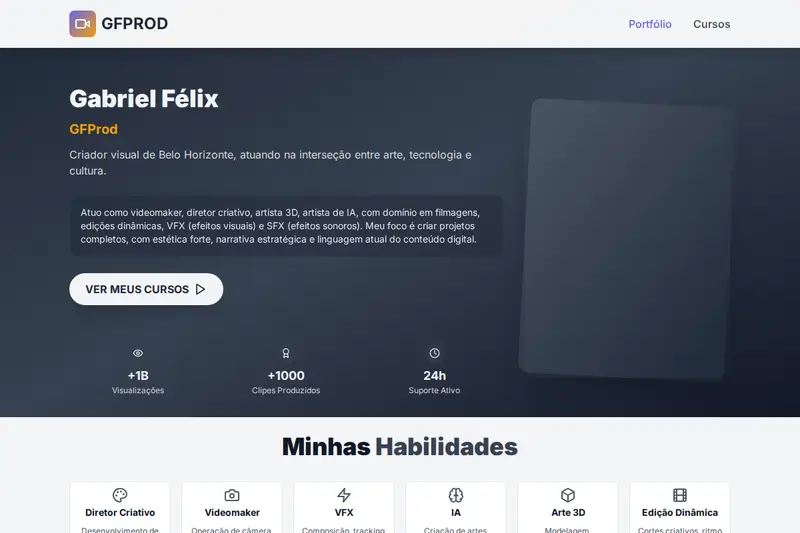
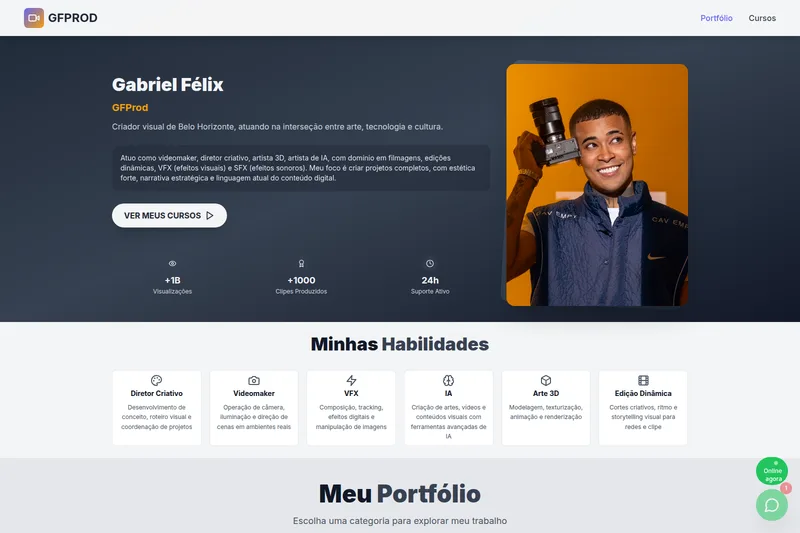
Corrige prints vazios do portfólio e troca domínio da Ophtalmed
Refaz as capturas de tela de espacioelizetetavares.com, GF Prod, JBN
Empreendimentos, JBN Consultoria e Reserva, aguardando 10s de
carregamento da home antes do print (estavam vindo em branco). Troca
oftalmomed2.com.br por ophtalmed2.com.br (domínio correto) e adiciona
seu print. Move Lucena Parquet para o final da lista de cases.

Claude-Session: https://claude.ai/code/session_01UA641EhvsnPJ75nNHERPb5

diff --git a/src/lib/projects.tsx b/src/lib/projects.tsx
@@ -19,6 +19,7 @@ import imgSoulGuetto from "@/assets/portfolio/gruposoulguetto-com-br.webp";
 import imgMisterBarbosa from "@/assets/portfolio/misterbarbosa-com-br.webp";
 import imgEspacioElizete from "@/assets/portfolio/espacioelizetetavares-com.webp";
 import imgParapente from "@/assets/portfolio/parapentearraialdajuda-com-br.webp";
+import imgOphtalmed from "@/assets/portfolio/ophtalmed2-com-br.webp";
 
 export const projectImages: Record<string, StaticImageData> = {
   "vistakodara.com.br": imgVistaKodara,
@@ -40,6 +41,7 @@ export const projectImages: Record<string, StaticImageData> = {
   "misterbarbosa.com.br": imgMisterBarbosa,
   "espacioelizetetavares.com": imgEspacioElizete,
   "parapentearraialdajuda.com.br": imgParapente,
+  "ophtalmed2.com.br": imgOphtalmed,
 };
 
 export type Category = "Sites & Sistemas" | "E-commerce" | "Tráfego Pago" | "Produto Próprio";
@@ -62,14 +64,6 @@ export const projects: Project[] = [
     icon: <ShoppingBag size={18} />,
     tier: "destaque",
     note: "Marca do grupo BauerLab",
-  },
-  {
-    title: "Lucena Parquet",
-    category: "Sites & Sistemas",
-    url: "lucenaparquetarima.com",
-    icon: <Globe size={18} />,
-    tier: "destaque",
-    note: "Cliente internacional (Espanha)",
   },
   {
     title: "Mindra Performance",
@@ -141,7 +135,15 @@ export const projects: Project[] = [
   { title: "Mister Barbosa", category: "Sites & Sistemas", url: "misterbarbosa.com.br", icon: <Globe size={18} />, tier: "volume" },
   { title: "Espacio Elizete Tavares", category: "Sites & Sistemas", url: "espacioelizetetavares.com", icon: <Globe size={18} />, tier: "volume" },
   { title: "Parapente Arraial da Ajuda", category: "Sites & Sistemas", url: "parapentearraialdajuda.com.br", icon: <Globe size={18} />, tier: "volume" },
-  { title: "Oftalmomed", category: "Sites & Sistemas", url: "oftalmomed2.com.br", icon: <Globe size={18} />, tier: "volume" },
+  { title: "Ophtalmed", category: "Sites & Sistemas", url: "ophtalmed2.com.br", icon: <Globe size={18} />, tier: "volume" },
+  {
+    title: "Lucena Parquet",
+    category: "Sites & Sistemas",
+    url: "lucenaparquetarima.com",
+    icon: <Globe size={18} />,
+    tier: "destaque",
+    note: "Cliente internacional (Espanha)",
+  },
 ];
 
 export const categories: Category[] = ["Sites & Sistemas", "E-commerce", "Tráfego Pago", "Produto Próprio"];
